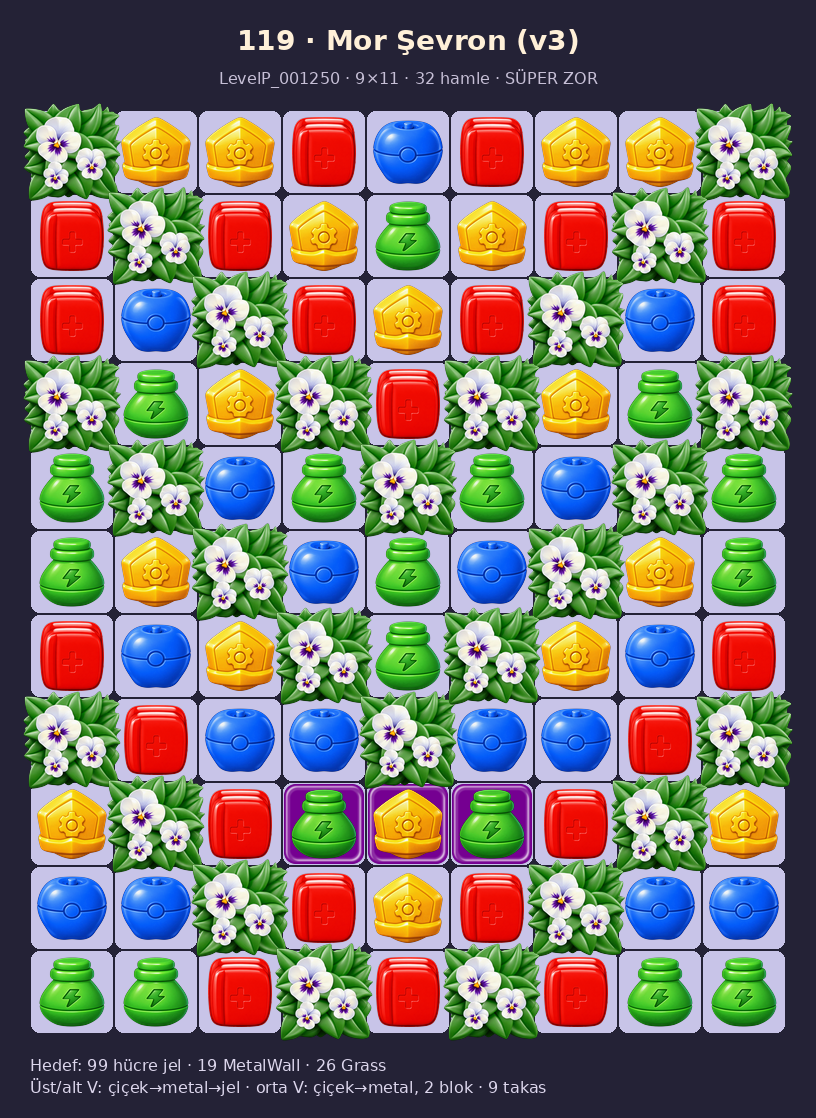
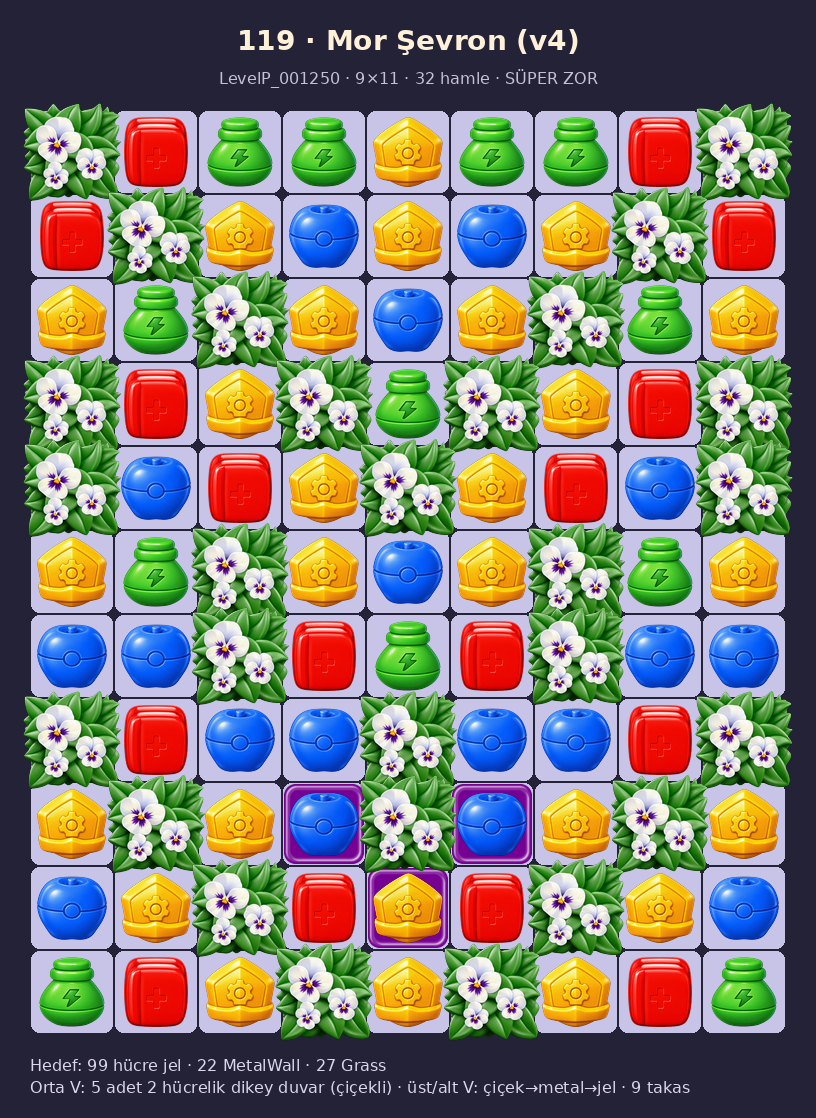
Level 119 v4: middle chevron as two-cell vertical walls
The v3 middle chevron joined diagonal cells into one piece, which broke
the wall autotile joins. Each middle wall is now a 2-cell vertical piece
(MetalWall base + GrassFlower). They sit on every other step (columns
0-2-4-6-8): a contiguous staircase of dominoes sealed the area below the
chevron from refill. Open gel moves to (3,8), (5,8), (4,9). Goals: 99
gel, 22 MetalWall, 27 Grass; 32 moves.

Claude-Session: https://claude.ai/code/session_011SM6jAozhV5f6ndTXzk3GM

diff --git a/Docs/LevelDesign/Level119-Mor-Sevron.md b/Docs/LevelDesign/Level119-Mor-Sevron.md
@@ -1,4 +1,4 @@
-# Level 119 — Mor Şevron (süper zor, v3)
+# Level 119 — Mor Şevron (süper zor, v4)
 
 `LevelCatalogPro` global 119 → `LevelP_001250.asset`. Tam 9×11 board (99 hücre), 32 hamle. Hedef geçiş oranı ~%10 (kullanıcı hamleyle ayarlar).
 
@@ -10,38 +10,38 @@
 #ooooooo#
 o#ooooo#o
 oo#ooo#oo
-Loo#o#ooR
-oLoo#ooRo
-ooLoooRoo
-oooLoRooo
-#oooLooo#
-o#ogggo#o
-oo#ooo#oo
+Doo#o#ooD
+Dooo#oooD
+ooDoooDoo
+ooDoooDoo
+#oooDooo#
+o#ogDgo#o
+oo#ogo#oo
 ooo#o#ooo
 ```
 
 - `#` (üst V, 9 hücre ve alt V, 8 hücre): **3 katman** — jel (46, `obstacles[]`) → tek hücrelik MetalWall (56, `stackedObstacles`, origin = hücre) → GrassFlower (58, `stackedObstacles`).
-- `L` / `R` (orta V): **2 katman** — MetalWall taban (`obstacles[]`) + GrassFlower (`stackedObstacles`), altında jel yok. Sol kol + uç (5 hücre) tek parça, sağ kol (4 hücre) tek parça: parçanın bir hücresi ardışık 3 hamle vurulunca kolun tamamı yıkılır.
+- `D` (orta V): beş adet **2 hücrelik dikey MetalWall** (taban, `obstacles[]`; her ikili ortak origin) + üstte GrassFlower; altında jel yok. Basamak atlanarak (sütun 0-2-4-6-8) yerleştirildi: bitişik merdiven duvar, V'nin altına taş akışını tamamen kesip hücreleri boş bırakıyordu.
 - Alt V bir satır aşağı kaydırıldı; ucu tahta dışında kaldığı için 8 hücre.
-- `g` açık jel (3 hücre), `o` normal taş.
+- `g` açık jel (3 hücre: (3,8), (5,8), (4,9)), `o` normal taş.
 
 Önizleme: `Level119-Mor-Sevron.png`.
 
 ## Hedefler
 
-99 hücre jel, 19 MetalWall parçası (17 tekli + 2 kol), 26 Grass.
+99 hücre jel, 22 MetalWall parçası (17 tekli + 5 ikili), 27 Grass.
 
 ## Revizyonlar
 
 - v1: iki şevron, 18 yığın — ilk denemede 6 hamle kala geçildi.
 - v2: üste üçüncü şevron, 27 yığın — çok zor bulundu.
-- v3 (kullanıcı tarifi): orta V 2 katman ve 2 blok, alt V bir satır aşağı. Kolaylaştırılmış ara sürüm olan 121 kaldırıldı.
+- v3: orta V 2 kol bloğu (çapraz hücreli parçalar) — duvar bağlantı görseli bozuk göründü. Kolaylaştırılmış ara sürüm 121 kaldırıldı.
+- v4 (kullanıcı tarifi): orta V her duvarı 2 hücreden oluşan dikey ikililer; alt V bir satır aşağıda.
 
 ## Risk notu
 
 - MetalWall'un `stackedObstacles` ile jel üstüne yığılması (üst/alt V) repoda ilk kullanım; oyunda vuruş sırası, jel açılışı ve sayaçlar kontrol edilmeli.
-- Orta V kollarının hücreleri çapraz basamaklı (yan yana değil) ama ortak origin'li: duvar servisi parçayı origin'e göre topladığından mantık çalışmalı; görsel autotile ve editör uyarısı kontrol edilmeli.
 
 ## Statik kontrol
 
-Diziler, 17 jel tabanı + 43 üst katman kaydı, iki kol parçasının origin'leri, hedef adetleri ve katalog bağlantısı (GUID korunarak) kontrol edildi. Hazır üçlü/2×2 yok, 9 geçerli takas. Unity, bot, build veya simülasyon çalıştırılmadı.
+Diziler, 17 jel tabanı + 44 üst katman kaydı, beş ikili duvarın origin'leri, hedef adetleri ve katalog bağlantısı (GUID korunarak) kontrol edildi. Hazır üçlü/2×2 yok, 9 geçerli takas. Unity, bot, build veya simülasyon çalıştırılmadı.
